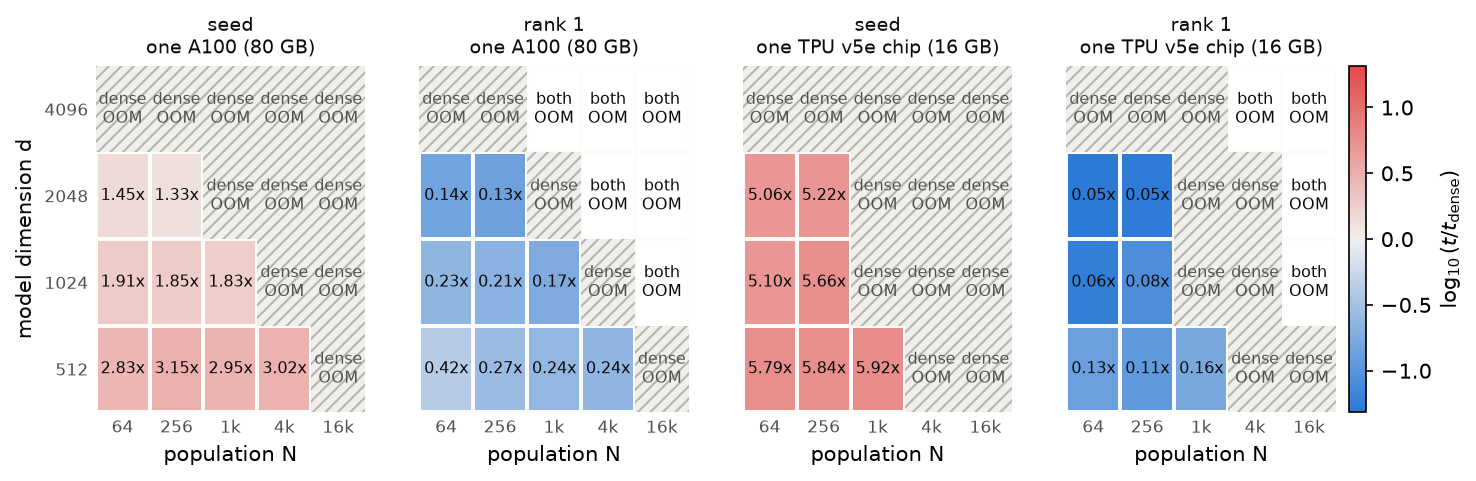
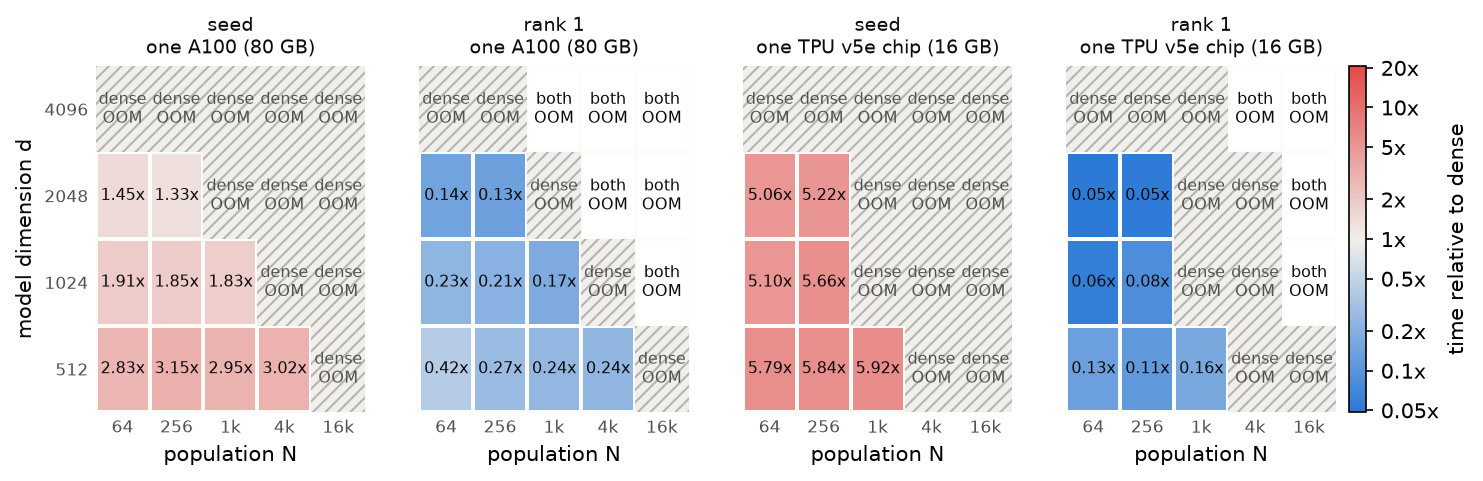
label alignment by the descent direction and classify near-ties by repeats
plot_paper.py and plot_e17.py print, for every t_B/t_A, its range
over repeats (fastest B over slowest A to slowest B over fastest A)
and flag the ones that contain 1. The pooled D=1 range in F2b stays as
a labelled reference. F4's colour bar reads in ratios, F9's labels are
larger, and F5 and the alignment tables name the measurement as
cos(update, -grad L), which is what e15_accuracy.py computes.

diff --git a/experiments/phase2/plot_paper.py b/experiments/phase2/plot_paper.py
@@ -57,22 +57,27 @@ def f2b(platform_rows: list[tuple[str, list[dict]]], out: pathlib.Path) -> None:
     One line per (strategy, d, N) configuration of the strong-scaling sweep, solid at
     d=2048 and dashed at d=512, open markers for the smaller population of each width and
     filled for the larger, from D=2. Plotted as the ratio on a log axis, so 0.5 and 2 are
-    the same distance from a tie. At D=1 the two placements do the same work, so the
-    spread of their ratio there is drawn as a grey band: a difference inside it is not
-    one the sweep can tell from a tie. Prints every plotted value and the band, which is
-    where the text's ranges come from.
+    the same distance from a tie. At D=1 the two placements do the same work, and the
+    range of their ratio there, pooled over configurations, is drawn as a grey band for
+    reference. It is not a per-configuration uncertainty. That comes from each
+    configuration's own repeats: the ratio runs from min(t_B)/max(t_A) to
+    max(t_B)/min(t_A) over the five repeats of each placement, and a configuration whose
+    range contains 1 is unresolved. Prints every plotted value, the band and that
+    classification at D=8, which is where the text's ranges and counts come from.
     """
     fig, axes = plt.subplots(1, len(platform_rows), figsize=(4.4 * len(platform_rows), 3.5),
                              sharey=True, squeeze=False)
     for j, (name, rows) in enumerate(platform_rows):
         ax = axes[0][j]
         cells: dict = collections.defaultdict(dict)
+        repeats: dict = collections.defaultdict(dict)
         for r in rows:
             c = r["config"]
             if c["mode"] != "strong" or c["strategy"] not in STRATEGIES:
                 continue
-            cells[(c["strategy"], c["d_model"], c["population"])][
-                (c["devices"], c["how"])] = r["seconds_median"]
+            key = (c["strategy"], c["d_model"], c["population"])
+            cells[key][(c["devices"], c["how"])] = r["seconds_median"]
+            repeats[key][(c["devices"], c["how"])] = r["seconds_all"]
         larger = {d: max(n for _, dd, n in cells if dd == d) for _, d, _ in cells}
         at_one = [by[(1, "B")] / by[(1, "A")] for by in cells.values()
                   if (1, "A") in by and (1, "B") in by]
@@ -91,6 +96,19 @@ def f2b(platform_rows: list[tuple[str, list[dict]]], out: pathlib.Path) -> None:
                     mfc=HUES[s] if filled else "white", mew=1.2)
             print(f"  {name:10s} {LABELS[s]:17s} d={d:<5d} N={n:<5d} "
                   + " ".join(f"D={dev}:{v:.3f}" for dev, v in pts))
+        unresolved = collections.defaultdict(list)
+        for key, by in sorted(repeats.items()):
+            if (8, "A") not in by or (8, "B") not in by:
+                continue
+            a, b = by[(8, "A")], by[(8, "B")]
+            lo, hi = min(b) / max(a), max(b) / min(a)
+            family = "rank 1" if key[0] in ("mirrored_lr1", "lowrank_r1") else "full rank"
+            unresolved[(family, key[1])].append(lo <= 1.0 <= hi)
+            print(f"  {name:10s} D=8 {LABELS[key[0]]:17s} d={key[1]:<5d} N={key[2]:<5d} "
+                  f"repeats {lo:.3f}-{hi:.3f}{'  contains 1' if lo <= 1.0 <= hi else ''}")
+        for (family, d), flags in sorted(unresolved.items()):
+            print(f"  {name:10s} D=8 {family} d={d}: {sum(flags)} of {len(flags)} "
+                  "repeat ranges contain 1")
         ax.axhline(1.0, color=MUTED, lw=1.0)
         ax.text(2.05, 1.9, "replicated (A) faster", color=MUTED, fontsize=7, va="top")
         ax.text(2.05, 0.19, "all-reduce (B) faster", color=MUTED, fontsize=7, va="bottom")
@@ -115,7 +133,7 @@ def f2b(platform_rows: list[tuple[str, list[dict]]], out: pathlib.Path) -> None:
              for mfc in ("white", MUTED)]
     marks += [plt.Rectangle((0, 0), 1, 1, color="#d6d5d0", lw=0)]
     fig.legend(marks, ["smaller N (256 at d = 512, 128 at d = 2048)",
-                       "larger N (1024, 256)", "spread at D = 1"],
+                       "larger N (1024, 256)", "range at D = 1 (same work)"],
                frameon=False, fontsize=8, labelcolor=INK, ncol=3, loc="upper center",
                bbox_to_anchor=(0.5, -0.03))
     fig.tight_layout()

diff --git a/experiments/countdown/plot_e17.py b/experiments/countdown/plot_e17.py
@@ -7,8 +7,10 @@ One panel per perturbation arm, x = device count, y = t_B / t_A of median
 generation time on a log axis (the block figure's axis), one line per population.
 Below 1: the all-reduce placement (B) wins. A cell where either placement ran
 out of memory has no point; it used to be a hollow marker at y=0, which read as a
-tie. Prints every plotted value. Falls back to results-e17 when results-e17b does
-not exist yet.
+tie. Prints every plotted value, and for each one the range of the ratio over
+repeats, min(t_B)/max(t_A) to max(t_B)/min(t_A), flagged where it contains 1 (the
+block figure's criterion). Falls back to results-e17 when results-e17b does not
+exist yet.
 """
 from __future__ import annotations
 
@@ -38,10 +40,17 @@ def cell(strategy, how, n, d):
     return json.loads(f.read_text()).get("seconds_median", "oom")
 
 
+def repeat_range(strategy, n, d):
+    """min(t_B)/max(t_A) to max(t_B)/min(t_A) over the recorded repeats, or None."""
+    a, b = (json.loads((RESULTS / f"s={strategy}__how={h}__N={n}__D={d}.json").read_text())
+            .get("seconds_all") for h in "AB")
+    return (min(b) / max(a), max(b) / min(a)) if a and b else None
+
+
 def main() -> None:
     pops = sorted({int(f.name.split("N=")[1].split("__")[0]) for f in RESULTS.glob("s=*.json")})
     arms = [(s, l) for s, l in ARMS if any(RESULTS.glob(f"s={s}__*.json"))]
-    fig, axes = plt.subplots(1, len(arms), figsize=(3.3 * len(arms), 3.6), sharey=True, squeeze=False)
+    fig, axes = plt.subplots(1, len(arms), figsize=(2.4 * len(arms), 2.7), sharey=True, squeeze=False)
     for ax, (strategy, label) in zip(axes[0], arms):
         for n in pops:
             xs, ys = [], []
@@ -56,6 +65,11 @@ def main() -> None:
                         color=SHADES.get(n, "#444444"), label=f"N = {n}")
                 print(f"  {label:15s} N={n:<4d} " + " ".join(
                     f"D={d}:{y:.3f}" for d, y in zip(xs, ys)))
+                for d in xs:
+                    rr = repeat_range(strategy, n, d)
+                    if rr and d > 1:
+                        print(f"    D={d} repeats {rr[0]:.3f}-{rr[1]:.3f}"
+                              + ("  contains 1" if rr[0] <= 1 <= rr[1] else ""))
         ax.axhline(1.0, color="#52514e", lw=1.0)
         ax.set_xscale("log", base=2)
         ax.set_yscale("log")
@@ -65,21 +79,21 @@ def main() -> None:
         ax.yaxis.set_minor_locator(plt.NullLocator())
         ax.set_xticks(DEVICES)
         ax.set_xticklabels([str(d) for d in DEVICES])
-        ax.set_title(label, fontsize=10, loc="left")
+        ax.set_title(label, fontsize=11, loc="left")
         ax.set_xlabel("devices D")
         ax.grid(True, color="#e6e6e3", lw=0.8)
         ax.set_axisbelow(True)
         ax.spines[["top", "right"]].set_visible(False)
     axes[0][0].set_ylabel(r"$t_B / t_A$")
-    axes[0][0].text(1.05, 1.8, "replicated (A) faster", color="#52514e", fontsize=7, va="top")
-    axes[0][0].text(1.05, 0.62, "all-reduce (B) faster", color="#52514e", fontsize=7)
+    axes[0][0].text(1.05, 1.8, "replicated (A) faster", color="#52514e", fontsize=8, va="top")
+    axes[0][0].text(1.05, 0.62, "all-reduce (B) faster", color="#52514e", fontsize=8)
     handles = {}
     for ax in axes[0]:
         for h, l in zip(*ax.get_legend_handles_labels()):
             handles.setdefault(l, h)
-    fig.legend(handles.values(), handles.keys(), frameon=False, fontsize=8,
+    fig.legend(handles.values(), handles.keys(), frameon=False, fontsize=10,
                loc="lower center", ncol=len(handles), bbox_to_anchor=(0.5, -0.02))
-    fig.tight_layout(rect=(0, 0.06, 1, 1))
+    fig.tight_layout(rect=(0, 0.09, 1, 1))
     FIGURES.mkdir(exist_ok=True)
     out = FIGURES / "f9-e17-crossover.png"
     fig.savefig(out, dpi=200)

diff --git a/experiments/countdown/tb6_e16.py b/experiments/countdown/tb6_e16.py
@@ -128,9 +128,10 @@ def main(argv=None) -> int:
         (gen / "tb6.tex").write_text("\n".join([
             "% generated by experiments/countdown/tb6_e16.py --latex; do not edit",
             "\\begin{table}[t]", "\\centering", "\\small", "\\setlength{\\tabcolsep}{3.2pt}",
-            "\\caption{Cosine between one ES update and the exact gradient of the",
-            "  next-token loss ($\\times 10^{-4}$, median over 5 perturbation seeds), at equal",
-            "  population; \\emph{1 unp.} is rank 1 without mirrored pairs.",
+            "\\caption{Alignment $\\cos(\\Delta\\theta, -\\nabla L)$ of one ES update with the",
+            "  gradient-descent direction of the next-token loss ($\\times 10^{-4}$, median over",
+            "  5 perturbation seeds), at equal population; \\emph{1 unp.} is rank 1 without",
+            "  mirrored pairs.",
             "  \\emph{ref.}: the mirrored full-rank fit from the synthetic block",
             "  (Figure~\\ref{fig:f5}) at the same $N/P$, a post hoc reference; unpaired",
             "  sampling should sit about $\\sqrt2$ above it. Batch 2 repeats two",
@@ -157,7 +158,7 @@ def main(argv=None) -> int:
         (gen / "tb6a.tex").write_text("\n".join([
             "% generated by experiments/countdown/tb6_e16.py --latex; do not edit",
             "\\begin{table*}[t]", "\\centering", "\\small",
-            "\\caption{The alignment measurements against both predictions",
+            "\\caption{The alignment measurements, $\\cos(\\Delta\\theta, -\\nabla L)$, against both predictions",
             "  ($\\times 10^{-4}$; median [min, max] over 5 perturbation seeds).",
             "  \\emph{synthetic reference}: the mirrored full-rank fit from the synthetic",
             "  block at $N/P$, the same curve for every arm, found after the runs.",

diff --git a/experiments/phase2/plot_cost.py b/experiments/phase2/plot_cost.py
@@ -176,8 +176,12 @@ def main(argv=None) -> int:
             ax.set_ylabel("model dimension d", color=INK)
 
     sm = plt.cm.ScalarMappable(cmap=CMAP, norm=norm)
-    fig.colorbar(sm, ax=axes.ravel().tolist(), fraction=0.02, pad=0.01,
-                 label="$\\log_{10}(t / t_\\mathrm{dense})$")
+    bar = fig.colorbar(sm, ax=axes.ravel().tolist(), fraction=0.02, pad=0.01,
+                       label="time relative to dense")
+    # Log-scaled colour, labelled in ratios, so nobody has to exponentiate.
+    ticks = [t for t in (0.05, 0.1, 0.2, 0.5, 1, 2, 5, 10, 20) if abs(np.log10(t)) <= lim]
+    bar.set_ticks([np.log10(t) for t in ticks])
+    bar.set_ticklabels([f"{t:g}x" for t in ticks])
     out = args.out / f"f4-cost-{args.dtype}.png"
     fig.savefig(out, dpi=150, bbox_inches="tight")
     print(out)

diff --git a/experiments/phase0/plot.py b/experiments/phase0/plot.py
@@ -177,8 +177,9 @@ def by_population(records: list[dict], out: Path) -> int:
     print(f"mirrored ranks at equal N: largest over smallest {min(spread):.2f}-"
           f"{max(spread):.2f} over the {len(spread)} populations all three ran")
 
+    # The record is cos(g_hat, grad L); the update is -g_hat, so this is cos(update, -grad L).
     ax.set(xscale="log", yscale="log", xlabel="$N/P$ (population over parameters)",
-           ylabel=r"$\cos(\hat{g}, \nabla f)$")
+           ylabel=r"$\cos(\Delta\theta, -\nabla L)$")
     ax.grid(True, color="#e6e6e3", lw=0.8, which="major")
     ax.set_axisbelow(True)
     ax.spines[["top", "right"]].set_visible(False)
